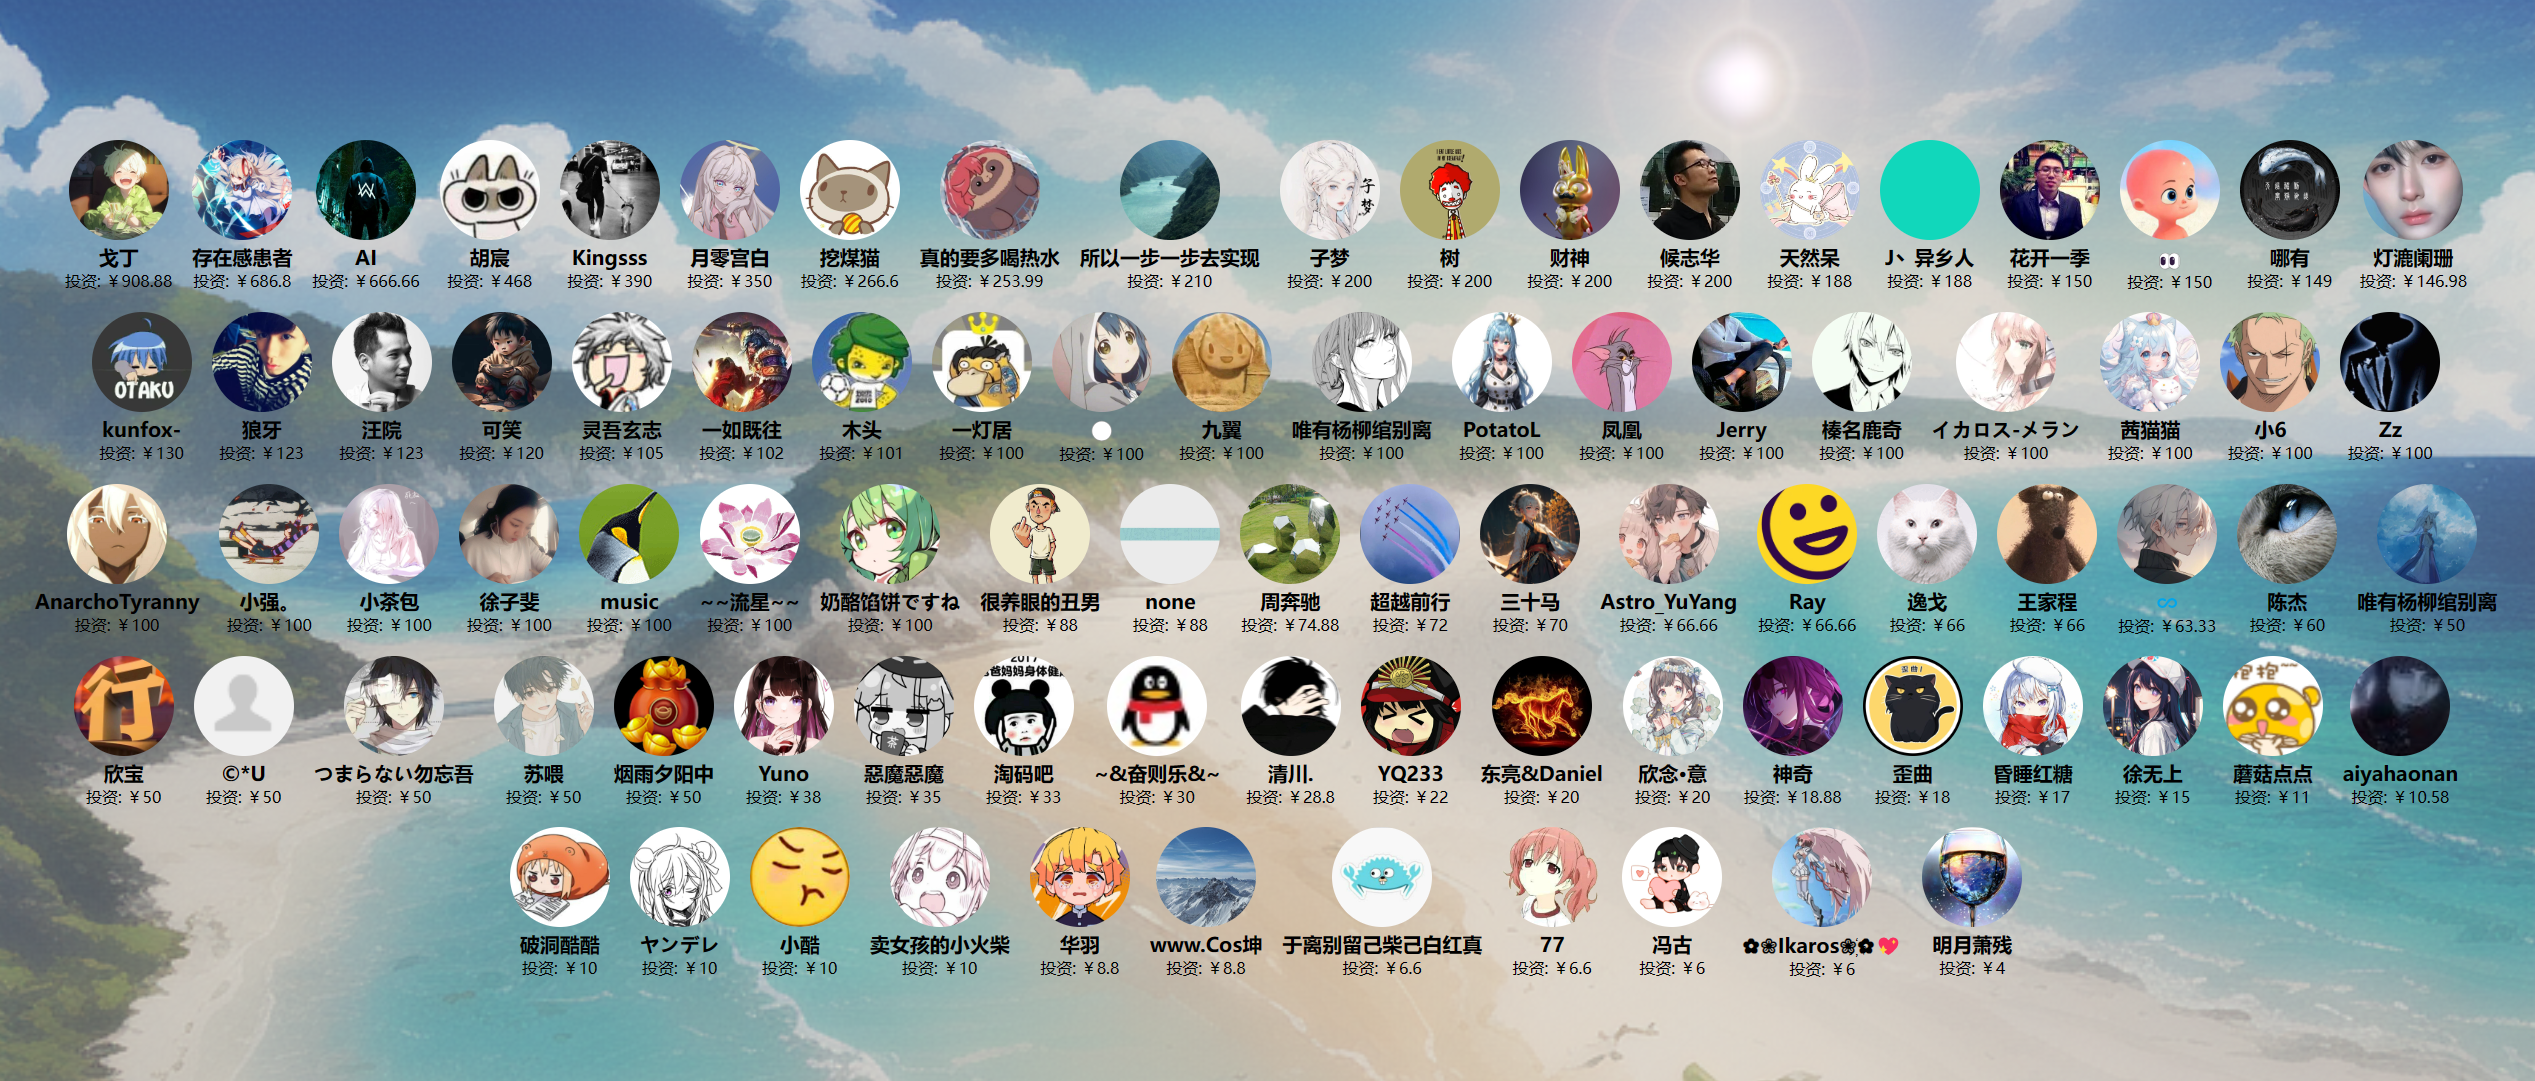
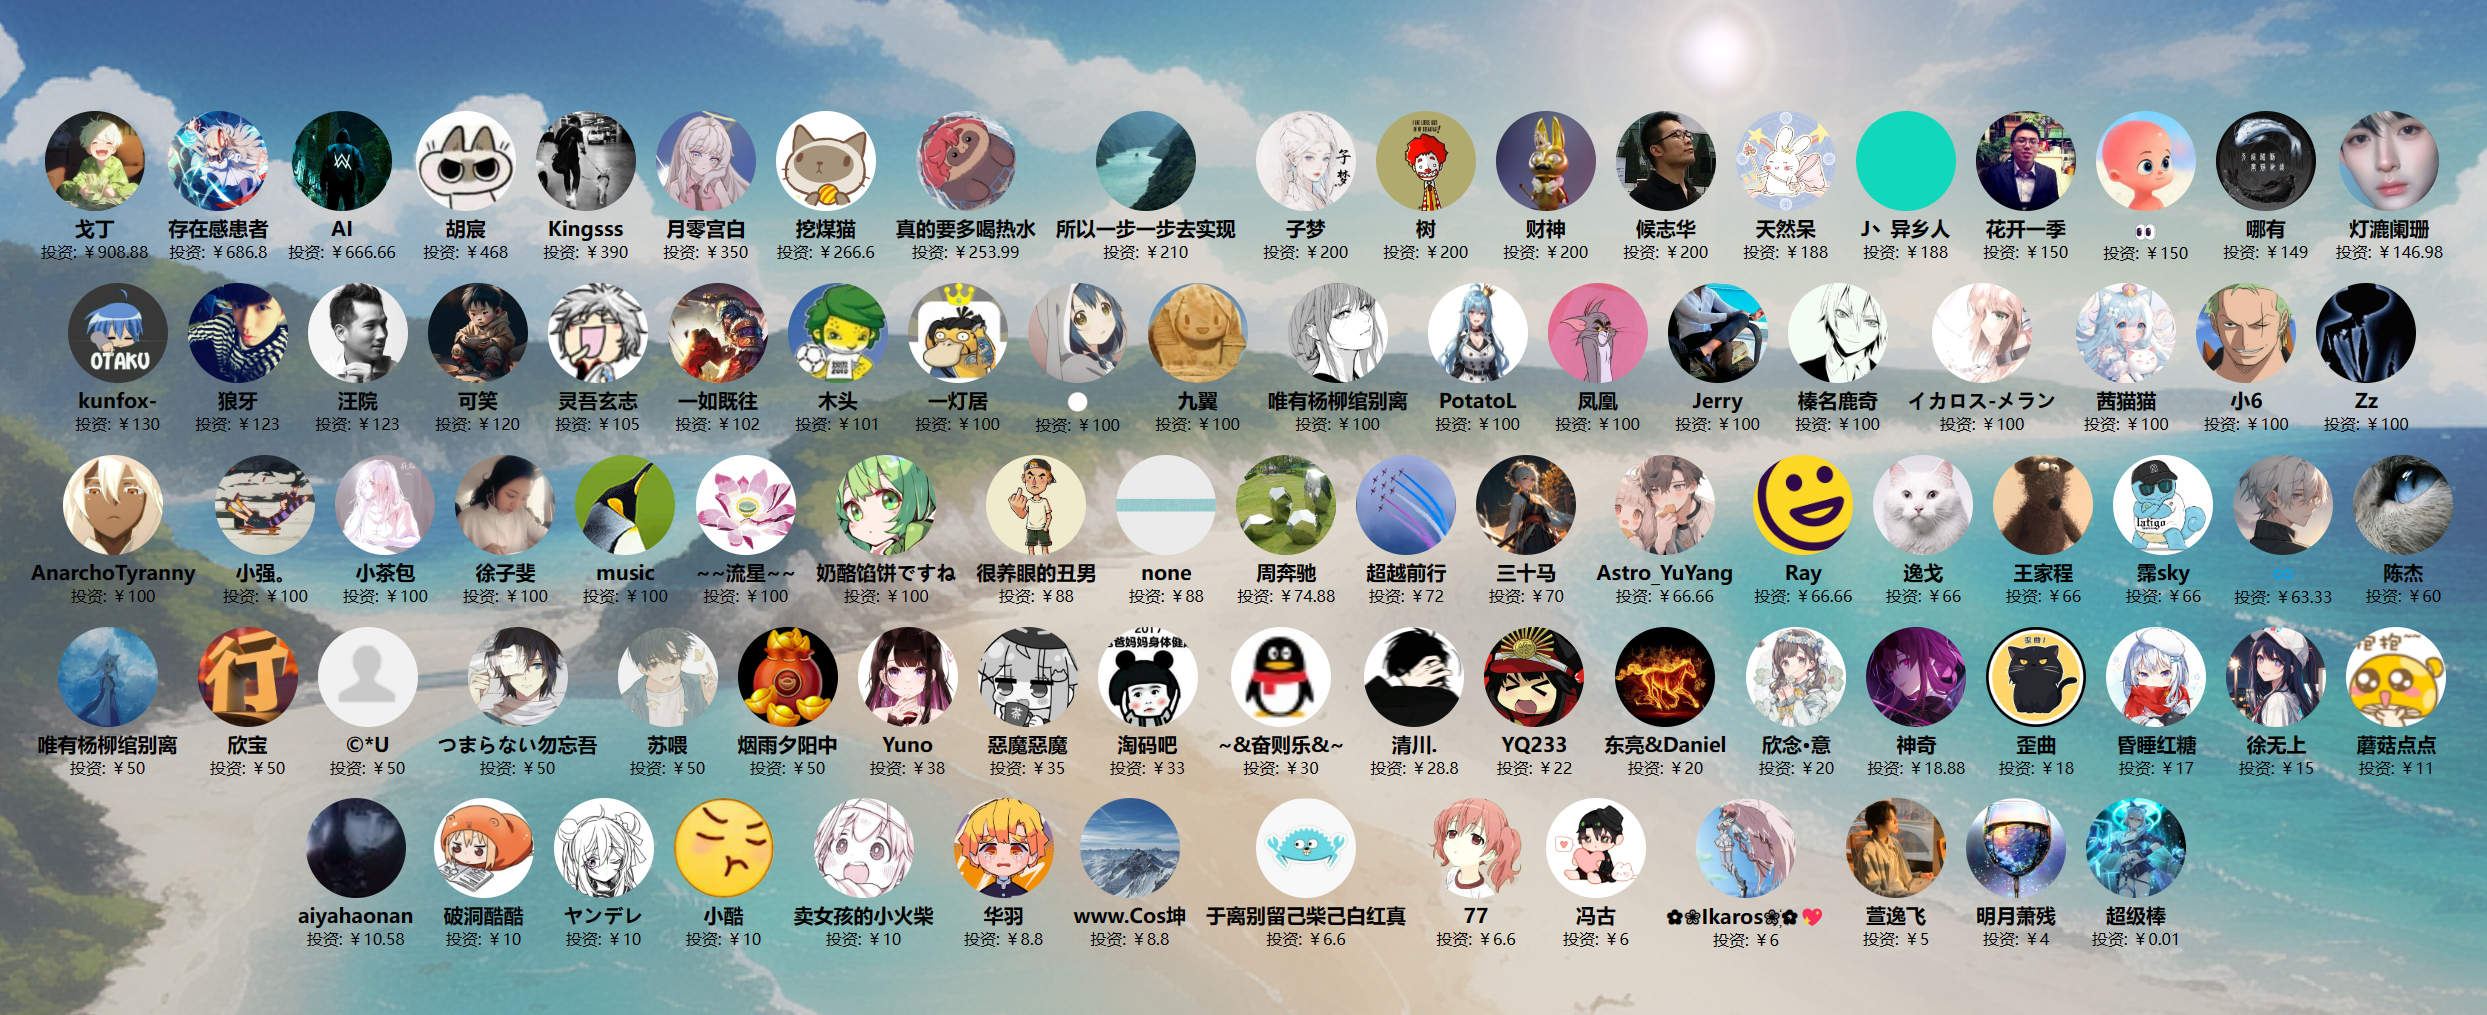
更新投资人

diff --git a/docs/投资人/index.html b/docs/投资人/index.html
@@ -322,6 +322,11 @@
             amount: "￥66"
         },
         {
+            name: "霈sky",
+            avatar: "https://images.cnblogs.com/cnblogs_com/ikaros-521/2328032/o_240307032531_QQ%E5%9B%BE%E7%89%8720240307112434.jpg",
+            amount: "￥66"
+        },
+        {
             name: "♾",
             avatar: "https://images.cnblogs.com/cnblogs_com/ikaros-521/2328032/o_231219144349_QQ%E5%9B%BE%E7%89%8720231219220916.jpg",
             amount: "￥63.33"
@@ -482,10 +487,20 @@
             amount: "￥6"
         },
         {
+            name: "萱逸飞",
+            avatar: "https://images.cnblogs.com/cnblogs_com/ikaros-521/2328032/o_240307032531_QQ%E5%9B%BE%E7%89%8720240307112305.jpg",
+            amount: "￥5"
+        },
+        {
             name: "明月萧残",
             avatar: "https://images.cnblogs.com/cnblogs_com/ikaros-521/2328032/o_231126161028_QQ%E5%9B%BE%E7%89%8720231127001005.jpg",
             amount: "￥4"
-        }
+        },
+        {
+            name: "超级棒",
+            avatar: "https://images.cnblogs.com/cnblogs_com/ikaros-521/2328032/o_240307032710_QQ%E5%9B%BE%E7%89%8720240307112635.jpg",
+            amount: "￥0.01"
+        },
     ];
 
     // 获取投资方信息容器
